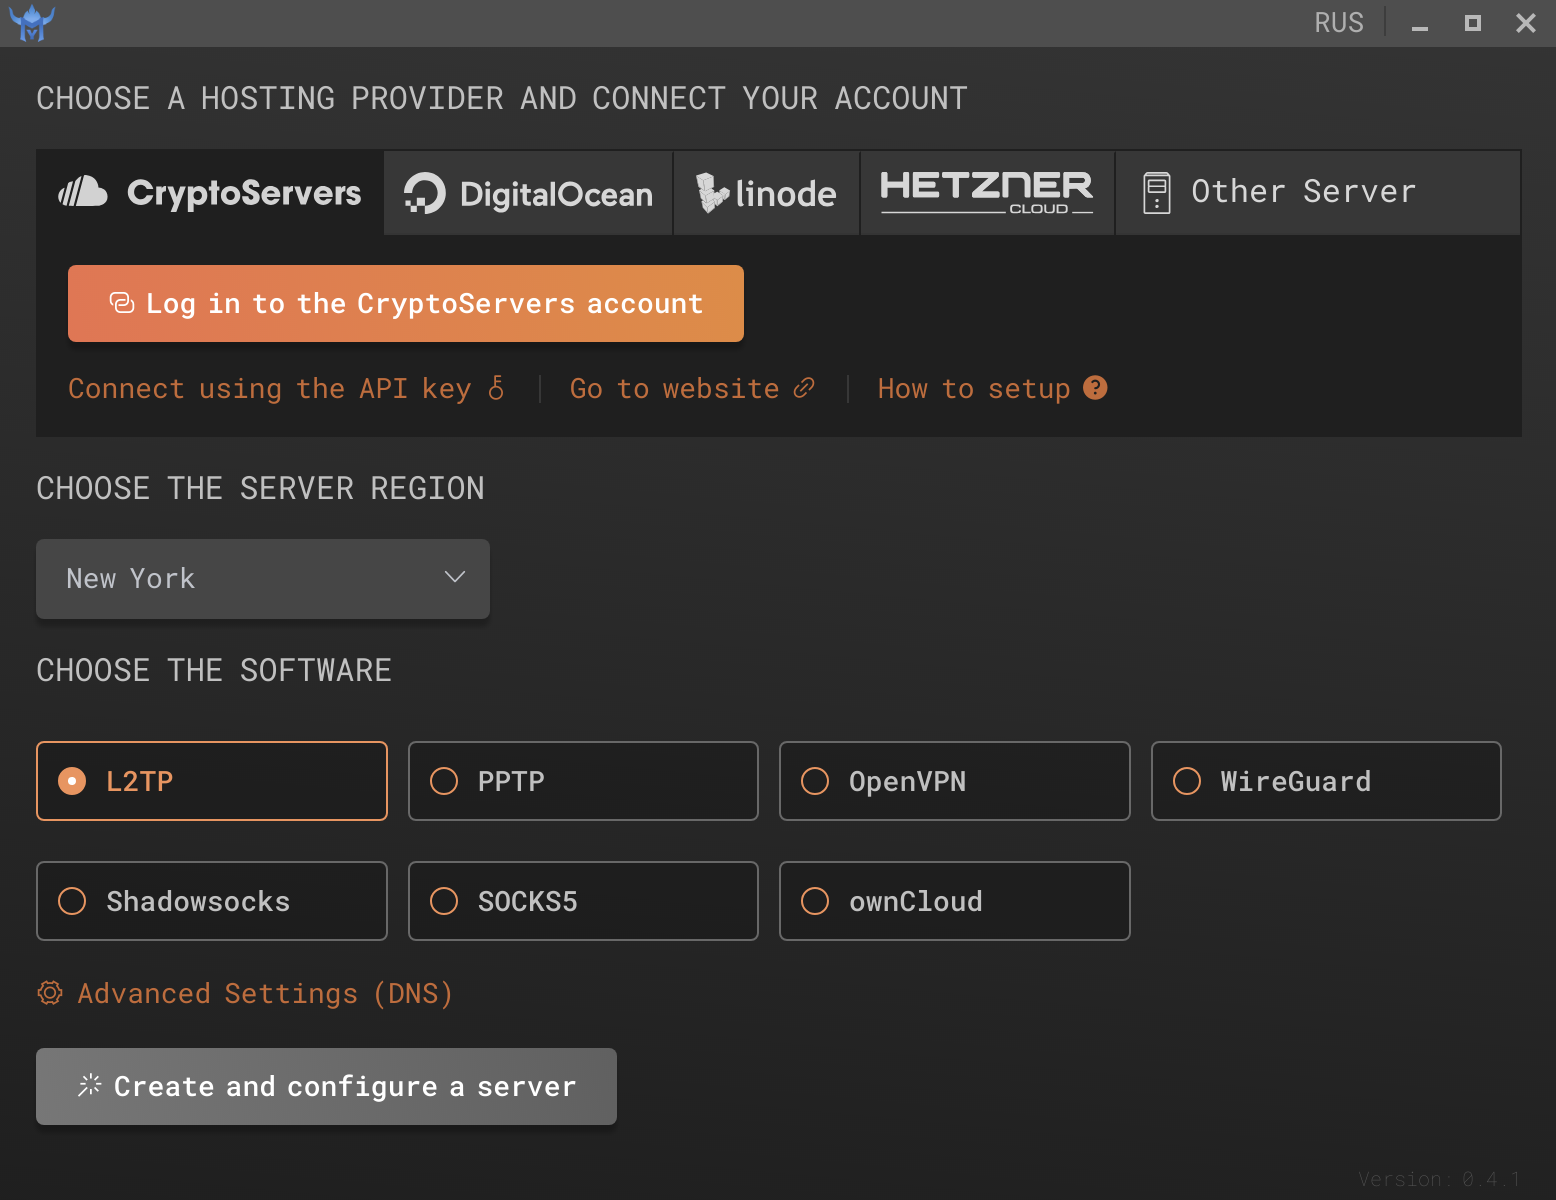
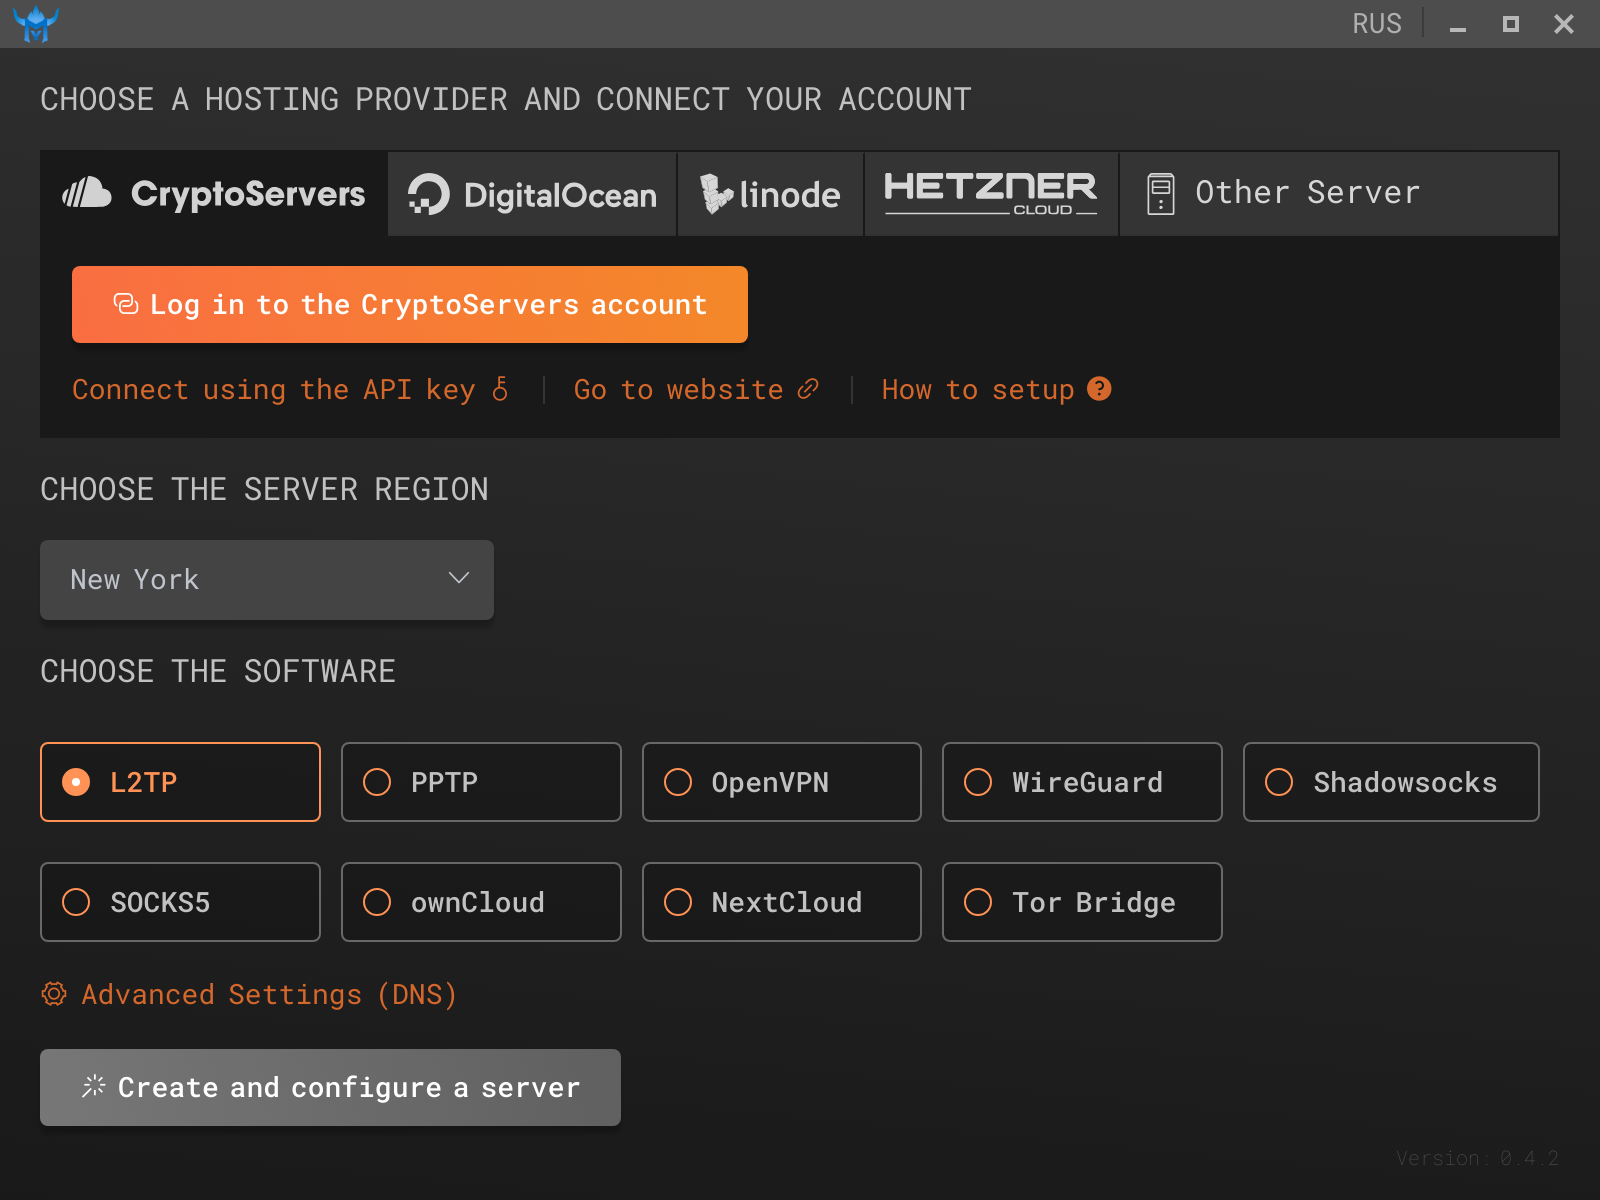
added nextcloud, torbridge

diff --git a/src/renderer/components/ModalAdvancedSettings.vue b/src/renderer/components/ModalAdvancedSettings.vue
@@ -31,6 +31,22 @@
                 </el-form-item>
             </el-form>
 
+            <el-form v-if="protocol === 'torbridge'" ref="form">
+              <h3>{{ protocol }}</h3>
+              <el-form-item :label="this.$root.$t('OR Port')">
+                <el-input-number v-model="torbridgeOrPort" :min="1" :max="65535"></el-input-number>
+              </el-form-item>
+              <el-form-item :label="this.$root.$t('PT Port')">
+                <el-input-number v-model="torbridgePtPort" :min="1" :max="65535"></el-input-number>
+              </el-form-item>
+              <el-form-item :label="this.$root.$t('Nickname')">
+                <el-input v-model="torbridgeNickname"></el-input>
+              </el-form-item>
+              <el-form-item :label="this.$root.$t('Email')">
+                <el-input v-model="torbridgeEmail"></el-input>
+              </el-form-item>
+            </el-form>
+
             <h3>DNS</h3>
             <el-form ref="form">
                 <el-form-item label="dns-list">
@@ -66,6 +82,14 @@
                 <div class="link">
                     <el-link v-on:click.prevent="handleLinkTo('https://myvpn.run/faq/setup/dns')"><i class="el-icon-link el-icon--right"></i> {{ $t('We recommend you additionally set the DNS in your system.')}}</el-link>
                 </div>
+
+                <el-alert
+                    v-show="invalidTorbridgePort"
+                    class="notify"
+                    :title="$t('Ports should be unique')"
+                    :closable="false"
+                    type="error">
+                </el-alert>
 
                 <el-form-item class="btn-group">
                     <el-button class="btn-group-item btn-group-item--fill" type="primary" @click="handleApply">{{ $t('Apply') }}</el-button>
@@ -134,6 +158,7 @@
       return {
         modalOpen: false,
         invalidDNS: false,
+        invalidTorbridgePort: false,
         selectedDNS: 0, // default
       }
     },
@@ -143,8 +168,15 @@
         if (this.protocol === 'shadowsocks') {
           info.push('V2Ray Plugin')
         }
+
         if (this.protocol === 'socks5') {
           info.push(this.$root.$t('Port'))
+        }
+
+        if (this.protocol === 'torbridge') {
+          info.push(this.$root.$t('Port'))
+          info.push(this.$root.$t('Nickname'))
+          info.push(this.$root.$t('Email'))
         }
 
         if (['shadowsocks', 'wireguard'].includes(this.protocol)) {
@@ -203,6 +235,38 @@
           this.$store.state.setting.numberOfAccounts = value
         }
       },
+      torbridgeOrPort: {
+        get () {
+          return this.$store.state.setting.torbridge.orPort
+        },
+        set (value) {
+          this.$store.state.setting.torbridge.orPort = value
+        }
+      },
+      torbridgePtPort: {
+        get () {
+          return this.$store.state.setting.torbridge.ptPort
+        },
+        set (value) {
+          this.$store.state.setting.torbridge.ptPort = value
+        }
+      },
+      torbridgeNickname: {
+        get () {
+          return this.$store.state.setting.torbridge.nickname
+        },
+        set (value) {
+          this.$store.state.setting.torbridge.nickname = value
+        }
+      },
+      torbridgeEmail: {
+        get () {
+          return this.$store.state.setting.torbridge.email
+        },
+        set (value) {
+          this.$store.state.setting.torbridge.email = value
+        }
+      },
     },
     methods: {
       changeDNS (val) {
@@ -213,16 +277,21 @@
         this.dnsSecond = this.dnsList[val].second
       },
       handleApply () {
-        if (!validateIPaddress(this.dnsFirst) || !validateIPaddress(this.dnsSecond)) {
+        if (this.torbridgePtPort === this.torbridgeOrPort) {
+          this.invalidTorbridgePort = true
+        }
+        else if (!validateIPaddress(this.dnsFirst) || !validateIPaddress(this.dnsSecond)) {
           this.invalidDNS = true
         } else {
           this.modalOpen = false
           this.invalidDNS = false
+          this.invalidTorbridgePort = false
         }
       },
       handleCancel () {
         this.modalOpen = false
         this.invalidDNS = false
+        this.invalidTorbridgePort = false
         this.selectedDNS = 0
         this.shadowsocksV2RayPlugin = false
         this.$store.dispatch('resetDNS')

diff --git a/src/renderer/components/StepAccess.vue b/src/renderer/components/StepAccess.vue
@@ -169,10 +169,10 @@
                             </el-col>
                         </el-row>
                     </div>
-                    <div v-if="connectionType === 'owncloud'">
+                    <div v-if="connectionType === 'owncloud' || connectionType === 'nextcloud'">
                       <el-form class="step-access__form step-access__form-vpn">
                         <el-form-item :label="$root.$t('Type')">
-                          ownCloud
+                          {{ connectionType }}
                         </el-form-item>
                         <el-form-item :label="$root.$t('Address')">
                           <Copied :text="`http://${serverIp}`" />
@@ -187,6 +187,36 @@
                         </el-form-item>
                         <el-form-item :label="$root.$t('IP')">
                           <Copied :text="serverIp" />
+                        </el-form-item>
+                      </el-form>
+                    </div>
+                    <div v-if="connectionType === 'torbridge'">
+                      <el-form class="step-access__form step-access__form-vpn">
+                        <el-form-item :label="$root.$t('Type')">
+                          TorBridge
+                        </el-form-item>
+                        <el-form-item :label="$root.$t('Bridge Address')">
+                          <el-input  type="textarea" :value="clientConfig" :readonly="true"/>
+                          <Copied :text="clientConfig" :hiddenText="true" />
+                          <div class="note-block">
+                            {{ $t('Note') }}:<br />
+                            {{ $t('Open tor browser, then click "Tor Network Settings". Under the "Bridges" section, select the checkbox "Use a bridge", choose "Provide a bridge" and enter bridge address on a separate line.')}}
+                          </div>
+                        </el-form-item>
+                        <el-form-item :label="$root.$t('IP')">
+                          <Copied :text="serverIp" />
+                        </el-form-item>
+                        <el-form-item :label="$root.$t('OR Port')">
+                          <Copied :text="torbridge.orPort" />
+                        </el-form-item>
+                        <el-form-item :label="$root.$t('PT Port')">
+                          <Copied :text="torbridge.ptPort" />
+                        </el-form-item>
+                        <el-form-item :label="$root.$t('Nickname')">
+                          <Copied :text="torbridge.nickname" />
+                        </el-form-item>
+                        <el-form-item :label="$root.$t('Email')">
+                          <Copied :text="torbridge.email" />
                         </el-form-item>
                       </el-form>
                     </div>
@@ -441,6 +471,11 @@
       customPort: {
         get () {
           return this.$store.state.setting.customPort
+        }
+      },
+      torbridge: {
+        get () {
+          return this.$store.state.setting.torbridge
         }
       },
       accountUsername: {

diff --git a/src/lib/protocols/index.js b/src/lib/protocols/index.js
@@ -5,6 +5,8 @@ import WireguardProtocol from "./wireguard";
 import ShadowsocksProtocol from "./shadowsocks";
 import Socks5Protocol from "./socks5";
 import OwncloudProtocol from "./owncloud";
+import NextcloudProtocol from "./owncloud";
+import TorbridgeProtocol from "./torbridge";
 
 export const TYPE_L2TP = 'l2tp'
 export const TYPE_PPTP = 'pptp'
@@ -14,6 +16,8 @@ export const TYPE_SHADOWSOCKS = 'shadowsocks'
 export const TYPE_SOCKS5 = 'socks5'
 // extra
 export const TYPE_OWNCLOUD = 'owncloud'
+export const TYPE_NEXTCLOUD = 'nextcloud'
+export const TYPE_TORBRIDGE = 'torbridge'
 
 export class ProtocolFactory {
   static create (name, params) {
@@ -32,6 +36,10 @@ export class ProtocolFactory {
         return new Socks5Protocol(params)
       case TYPE_OWNCLOUD:
         return new OwncloudProtocol(params)
+      case TYPE_NEXTCLOUD:
+        return new NextcloudProtocol(params)
+      case TYPE_TORBRIDGE:
+        return new TorbridgeProtocol(params)
       default:
         throw new Error(`Unknown protocol ${name}`)
     }
@@ -46,6 +54,8 @@ export const PROTOCOL_CODES = [
   {code: 5, type: TYPE_SHADOWSOCKS},
   {code: 6, type: TYPE_SOCKS5},
   {code: 7, type: TYPE_OWNCLOUD},
+  {code: 8, type: TYPE_NEXTCLOUD},
+  {code: 9, type: TYPE_TORBRIDGE},
 ]
 
 export const PROTOCOL_LIST = [
@@ -76,5 +86,13 @@ export const PROTOCOL_LIST = [
   {
     key: TYPE_OWNCLOUD,
     title: 'ownCloud'
+  },
+  {
+    key: TYPE_NEXTCLOUD,
+    title: 'NextCloud'
+  },
+  {
+    key: TYPE_TORBRIDGE,
+    title: 'Tor Bridge'
   },
 ]

diff --git a/src/i18n/index.js b/src/i18n/index.js
@@ -142,6 +142,7 @@ export default {
     'If you want to use a domain name you need to follow 2 simple steps.': 'Если вы хотите использовать доменное имя вам необходимо выполнить 2 простых шага.',
     'Go to your domain control panel and create a DNS record referencing the IP': 'Перейти в панель управления домена и создать А запись DNS ссылающуюся на IP',
     'Go to this domain and configure the cloud by creating an administrator account.': 'Перейти к домену и произвести настройку облака создав учетную запись администратора.',
-    'Address': 'Адрес'
+    'Address': 'Адрес',
+    'Open tor browser, then click "Tor Network Settings". Under the "Bridges" section, select the checkbox "Use a bridge", choose "Provide a bridge" and enter bridge address on a separate line.': 'Откройте браузер tor, затем нажмите "Tor Network Settings". В разделе "Bridges" установите флажок "Use a bridge", выберите "Provide a bridge" и введите адрес моста в отдельной строке.'
   }
 }

diff --git a/src/lib/protocols/torbridge.js b/src/lib/protocols/torbridge.js
@@ -1,0 +1,20 @@
+import BaseProtocol from "./base";
+
+class TorbridgeProtocol extends BaseProtocol {
+
+    /**
+     * @returns {Object}
+     */
+    envVariables () {
+        const torbridge = this.params.setting.torbridge
+        return Object.assign(super.envVariables(), {
+            'OR_PORT': torbridge.orPort,
+            'PT_PORT': torbridge.ptPort,
+            'NICKNAME': torbridge.nickname,
+            'EMAIL': torbridge.email,
+        })
+    }
+
+}
+
+export default TorbridgeProtocol

diff --git a/src/lib/protocols/nextcloud.js b/src/lib/protocols/nextcloud.js
@@ -1,6 +1,6 @@
 import BaseProtocol from "./base";
 
-class NextcloudProtocol extends BaseProtocol {
+class OwncloudProtocol extends BaseProtocol {
 
     /**
      * @returns {Object}
@@ -13,4 +13,4 @@ class NextcloudProtocol extends BaseProtocol {
 
 }
 
-export default NextcloudProtocol
+export default OwncloudProtocol

diff --git a/src/renderer/components/FormTypes.vue b/src/renderer/components/FormTypes.vue
@@ -8,7 +8,7 @@
     @import '~mixins';
     .type-radio-list {
       display: grid;
-      grid-template-columns: 1fr 1fr 1fr 1fr;
+      grid-template-columns: 1fr 1fr 1fr 1fr 1fr;
       @include mqMAX($XXS) {
         display: grid;
         grid-template-columns: 1fr 1fr;

diff --git a/src/renderer/store/modules/setting.js b/src/renderer/store/modules/setting.js
@@ -71,6 +71,12 @@ const state = {
   shadowsocks: {
     v2rayPlugin: false
   },
+  torbridge: {
+    orPort: 1088,
+    ptPort: 1090,
+    nickname: 'bridge',
+    email: 'bridge@unknown.domain',
+  },
   customPort: 1080, // default socks5 only
   numberOfAccounts: 1,
 }

diff --git a/README.md b/README.md
@@ -39,6 +39,13 @@ https://tool.myvpn.run
 * OpenVPN
 * [WireGuard](https://www.wireguard.com/)
 * Shadowsocks (with optional V2Ray Plugin)
+* SOCKS5
+
+### Other Software
+
+* ownCloud
+* NextCloud
+* Tor Bridge
 
 ### Languages
 
